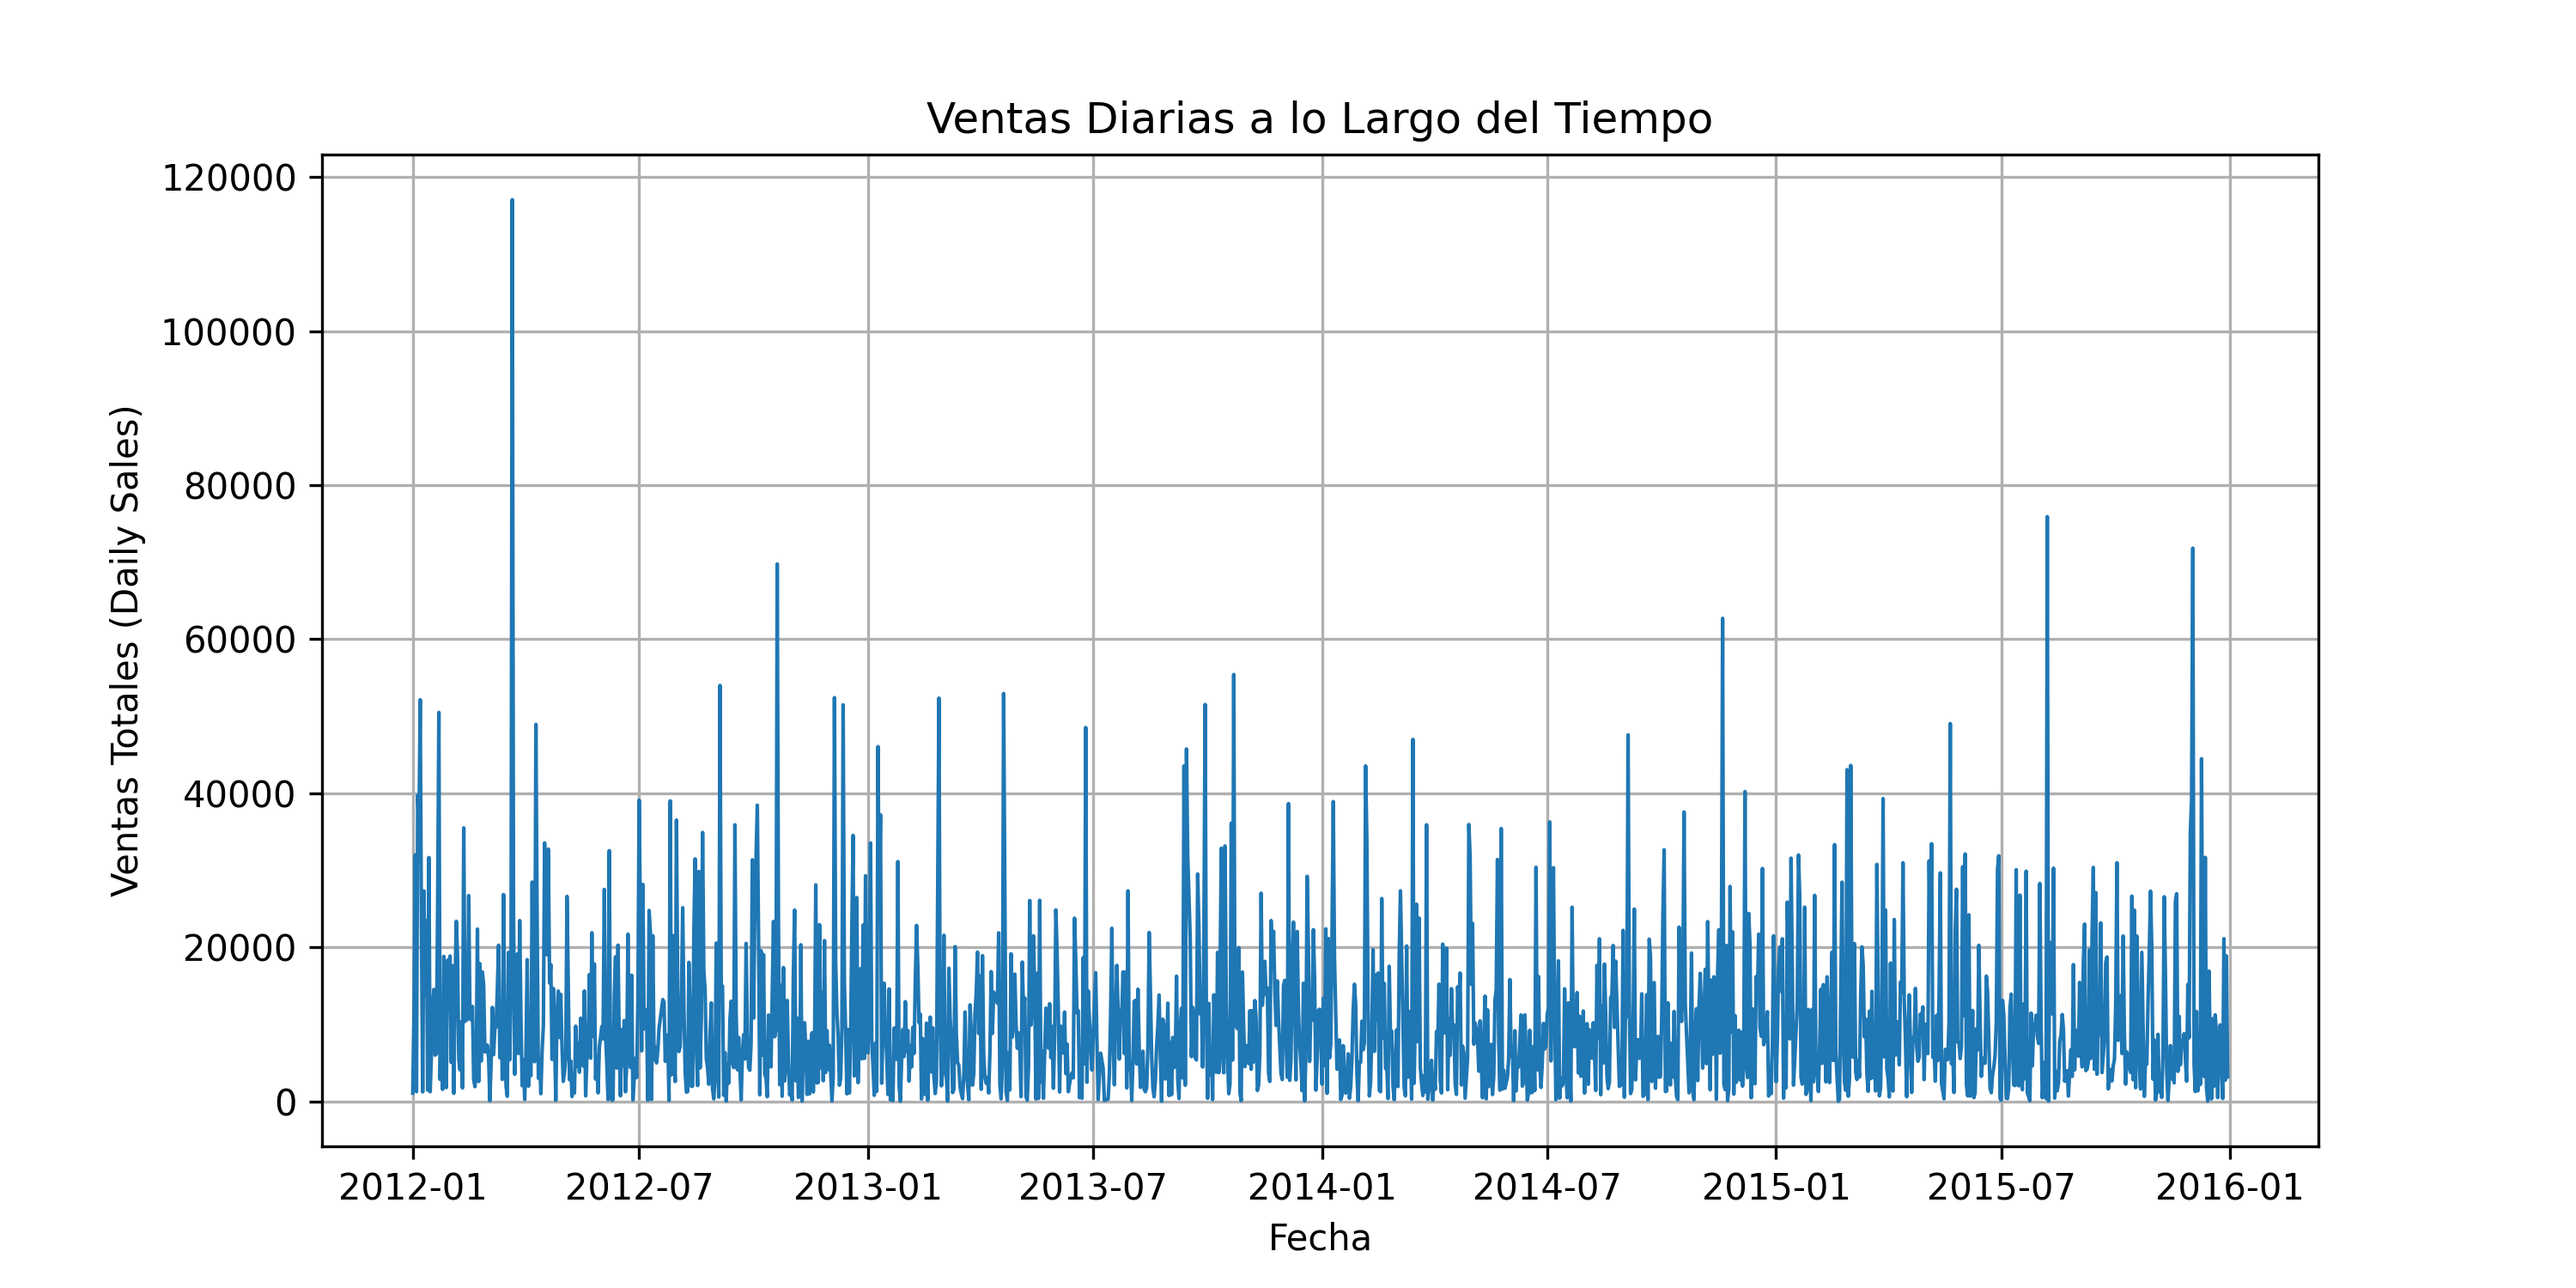
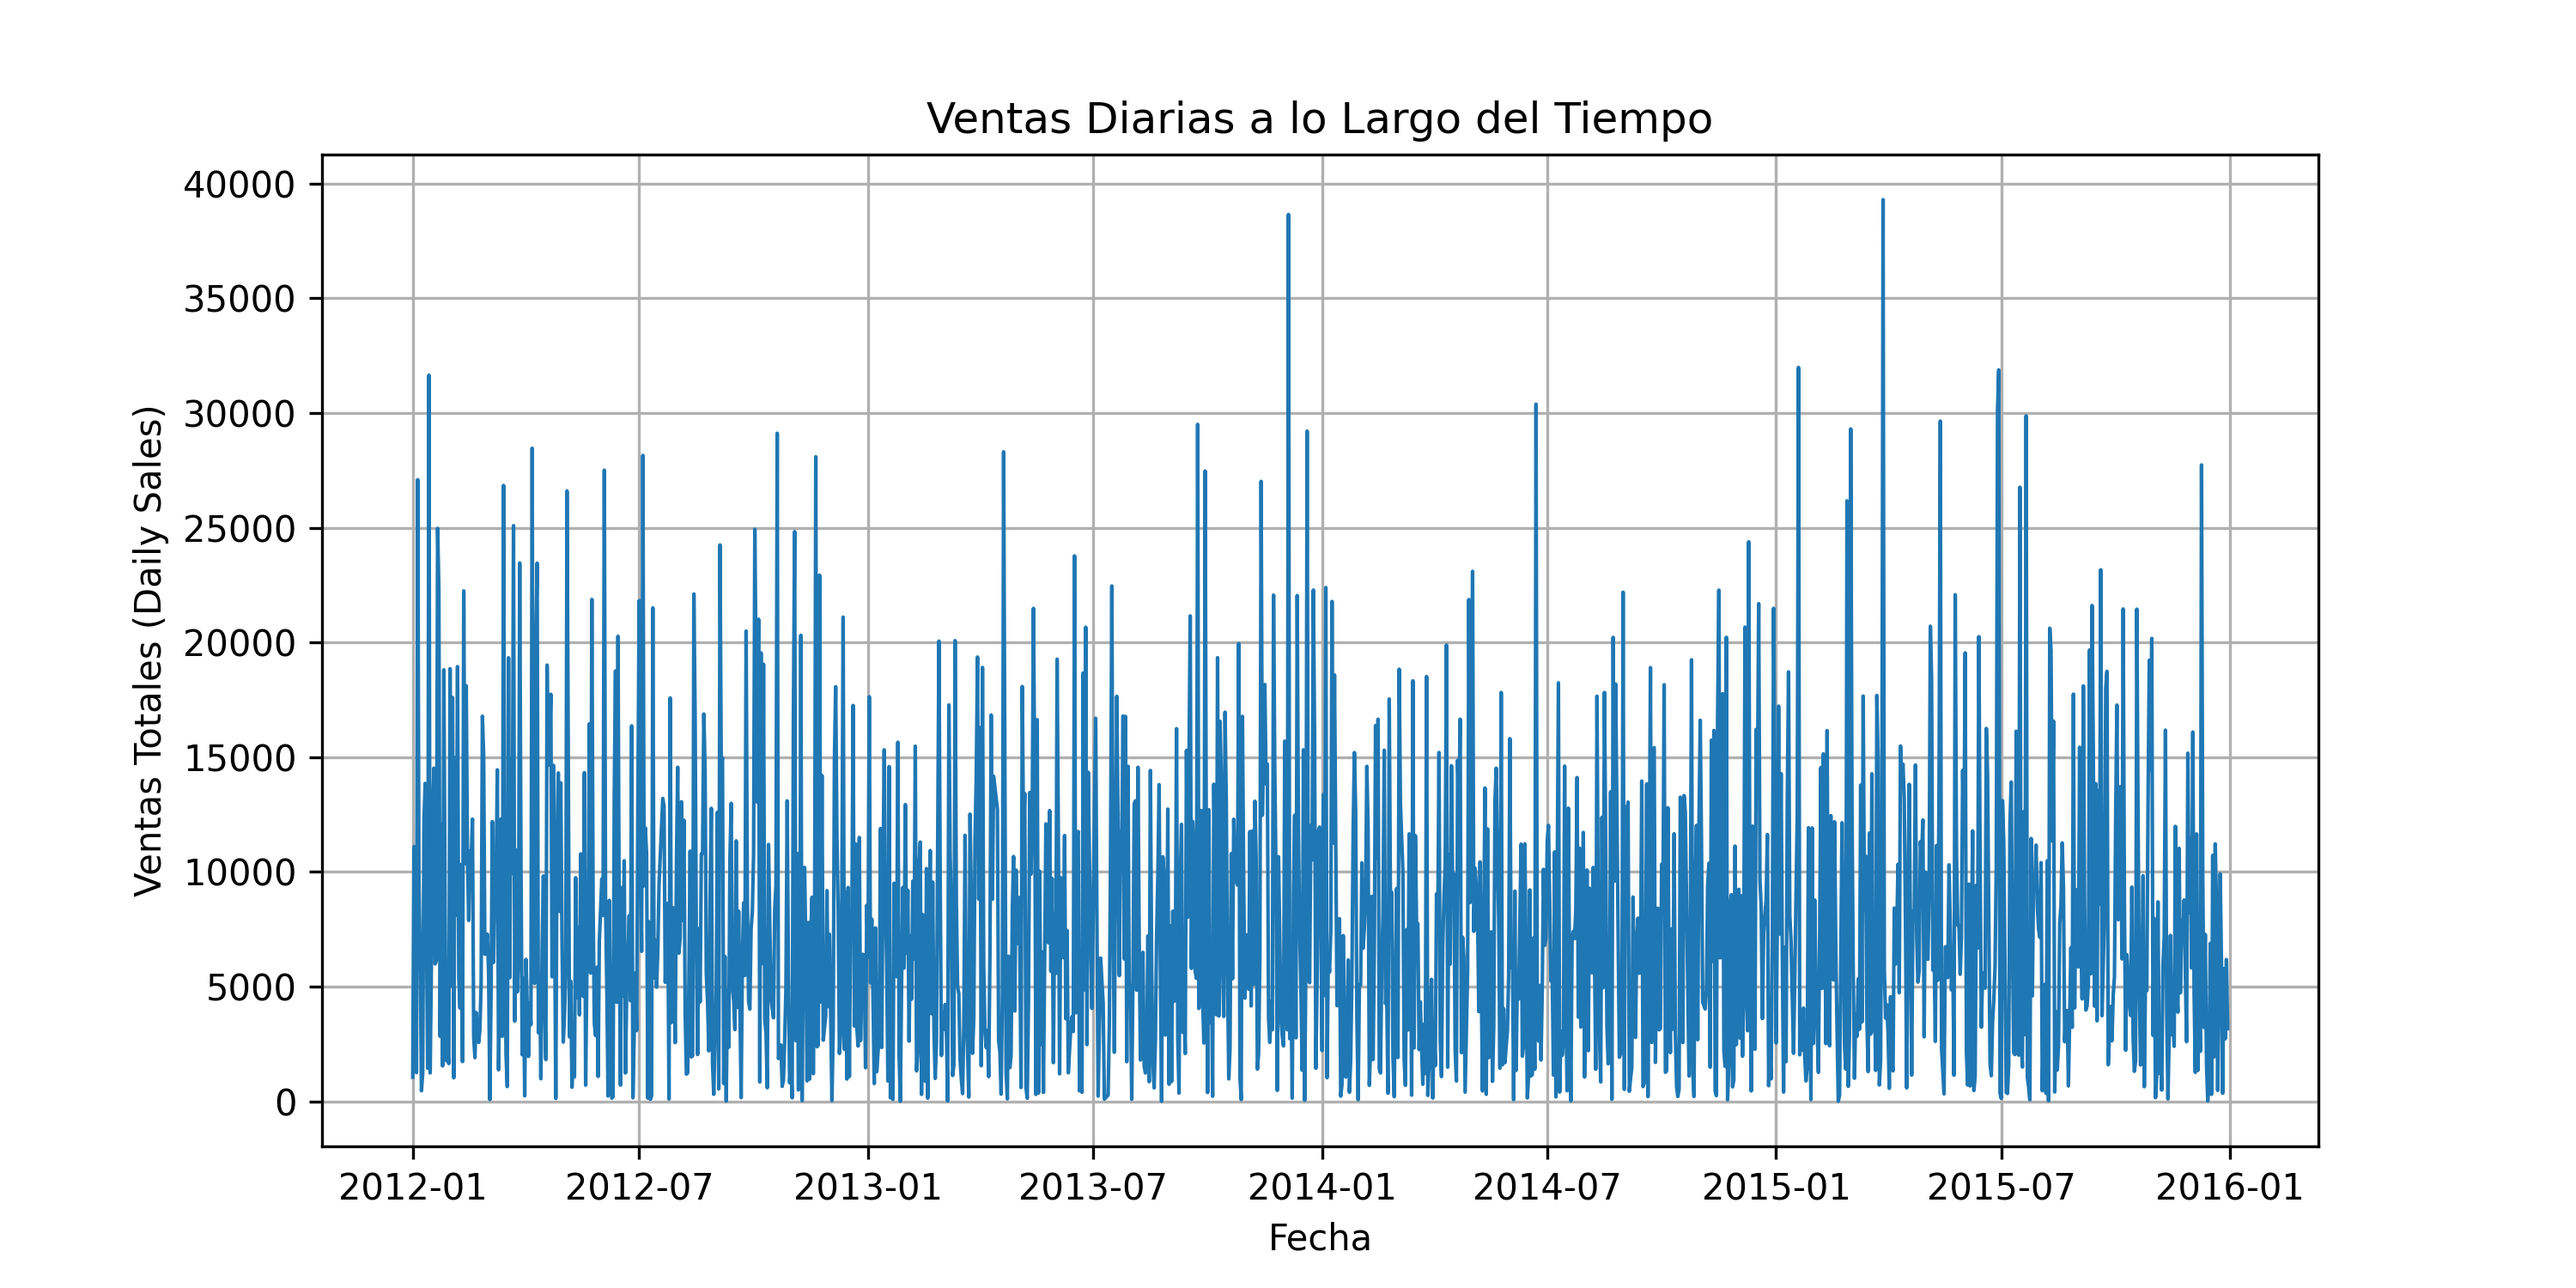
serie segmentada

diff --git a/scripts/serie_tiempo.py b/scripts/serie_tiempo.py
@@ -7,39 +7,77 @@ Script que:
 3) Grafica la serie de tiempo resultante
 """
 
+import matplotlib
+matplotlib.use('TkAgg')
+
 import pandas as pd
 import matplotlib.pyplot as plt
+import matplotlib.dates as mdates
 import os
+import plotly.express as px
 
-def main():
+def interactive_plot(daily_sales):
+    fig = px.line(daily_sales, x=daily_sales.index, y='Sales', title='Ventas Diarias a lo Largo del Tiempo')
+    fig.update_xaxes(title_text='Fecha')
+    fig.update_yaxes(title_text='Ventas Totales (Daily Sales)')
+    fig.show()
+
+def main(plot_type="superpuesta"):
     # 1. Ruta de tu archivo (CSV) con datos limpios
-    #    Ajusta el nombre y la ubicación según tu estructura
-    data_path = "../data/processed/walmart_cleaned.csv"
+    data_path = "../data/processed/walmart_cleaned_w_out.csv"
     
     # 2. Carga el dataset
     df = pd.read_csv(data_path, parse_dates=["Order Date"])
     
-    # 3. Agrupar las ventas diarias
-    #    Asume que cada registro tiene 'Sales' y 'Order Date' (datetime)
-    daily_sales = df.groupby(df["Order Date"].dt.date)["Sales"].sum()
-    
-    # Convierto el índice a tipo datetime de nuevo, si deseas
-    daily_sales.index = pd.to_datetime(daily_sales.index)
-    
-    # 4. Graficar la serie de tiempo
-    plt.figure(figsize=(10, 5))
-    plt.plot(daily_sales.index, daily_sales.values, linewidth=1)
+    if plot_type == "superpuesta":
+        # 3. Crear una columna para el día del año
+        df["Day_of_Year"] = df["Order Date"].dt.dayofyear
+        df["Year"] = df["Order Date"].dt.year
+        
+        # 4. Agrupar las ventas diarias por año y día del año
+        daily_sales = df.groupby(["Year", "Day_of_Year"])["Sales"].sum().unstack(level=0)
+        
+        # 5. Graficar la serie de tiempo para cada año
+        plt.figure(figsize=(10, 5))
+        for year in daily_sales.columns:
+            plt.plot(daily_sales.index, daily_sales[year], label=str(year), linewidth=1)
 
-    # 5. Personalizar la gráfica
-    plt.title("Ventas Diarias a lo Largo del Tiempo")
-    plt.xlabel("Fecha")
-    plt.ylabel("Ventas Totales (Daily Sales)")
-    plt.grid(True)
+        # 6. Personalizar la gráfica
+        plt.title("Ventas Diarias a lo Largo del Tiempo (Superpuestas por Año)")
+        plt.xlabel("Día del Año")
+        plt.ylabel("Ventas Totales (Daily Sales)")
+        plt.legend(title="Año")
+        plt.grid(True)
+        # Formatear el eje X para mostrar todos los días del mes
+        plt.gca().xaxis.set_major_formatter(mdates.DateFormatter('%m-%d'))
+        plt.gca().xaxis.set_major_locator(mdates.DayLocator())
+        plt.gcf().autofmt_xdate()  # Rotar las etiquetas de fecha
 
-    # 6. Mostrar o guardar la gráfica
+    else:
+        # 3. Agrupar las ventas diarias
+        daily_sales = df.groupby(df["Order Date"].dt.date)["Sales"].sum()
+        
+        # Convierto el índice a tipo datetime de nuevo, si deseas
+        daily_sales.index = pd.to_datetime(daily_sales.index)
+        
+        # 4. Graficar la serie de tiempo
+        plt.figure(figsize=(10, 5))
+        plt.plot(daily_sales.index, daily_sales.values, linewidth=1)
+
+        # 5. Personalizar la gráfica
+        plt.title("Ventas Diarias a lo Largo del Tiempo")
+        plt.xlabel("Fecha")
+        plt.ylabel("Ventas Totales (Daily Sales)")
+        plt.grid(True)
+        
+        # Formatear el eje X para mostrar fechas completas
+        plt.gca().xaxis.set_major_formatter(mdates.DateFormatter('%Y-%m-%d'))
+        plt.gca().xaxis.set_major_locator(mdates.MonthLocator())
+        plt.gcf().autofmt_xdate()  # Rotar las etiquetas de fecha
+
+    # 7. Mostrar la gráfica
     plt.show()
-    # Si quisieras guardar, podrías:
-    plt.savefig("daily_sales_timeseries.png", dpi=300)
 
 if __name__ == "__main__":
-    main()
+    # Cambia el valor de plot_type a "normal" para ver la gráfica de toda la serie
+    main(plot_type="superpuesta")

diff --git a/scripts/data_cleaning.py b/scripts/data_cleaning.py
@@ -43,7 +43,7 @@ def clean_data(df: pd.DataFrame) -> pd.DataFrame:
         print(outliers_sales[["Sales", "z_sales"]].head(10))
 
         # Decide si excluyes outliers
-        # df = df[abs(df["z_sales"]) <= 3]
+        #df = df[abs(df["z_sales"]) <= 3]
 
         # Limpia la columna auxiliar
         df.drop(columns="z_sales", inplace=True)
@@ -71,7 +71,7 @@ def save_data(df: pd.DataFrame, output_path: str):
 if __name__ == "__main__":
 
     input_file = "../data/raw/walmart Retail Data.xlsx"
-    output_file = "../data/processed/walmart_cleaned.csv"
+    output_file = "../data/processed/walmart_cleaned_w_out.csv"
 
     # 1. Carga
     df_raw = load_data(input_file)
